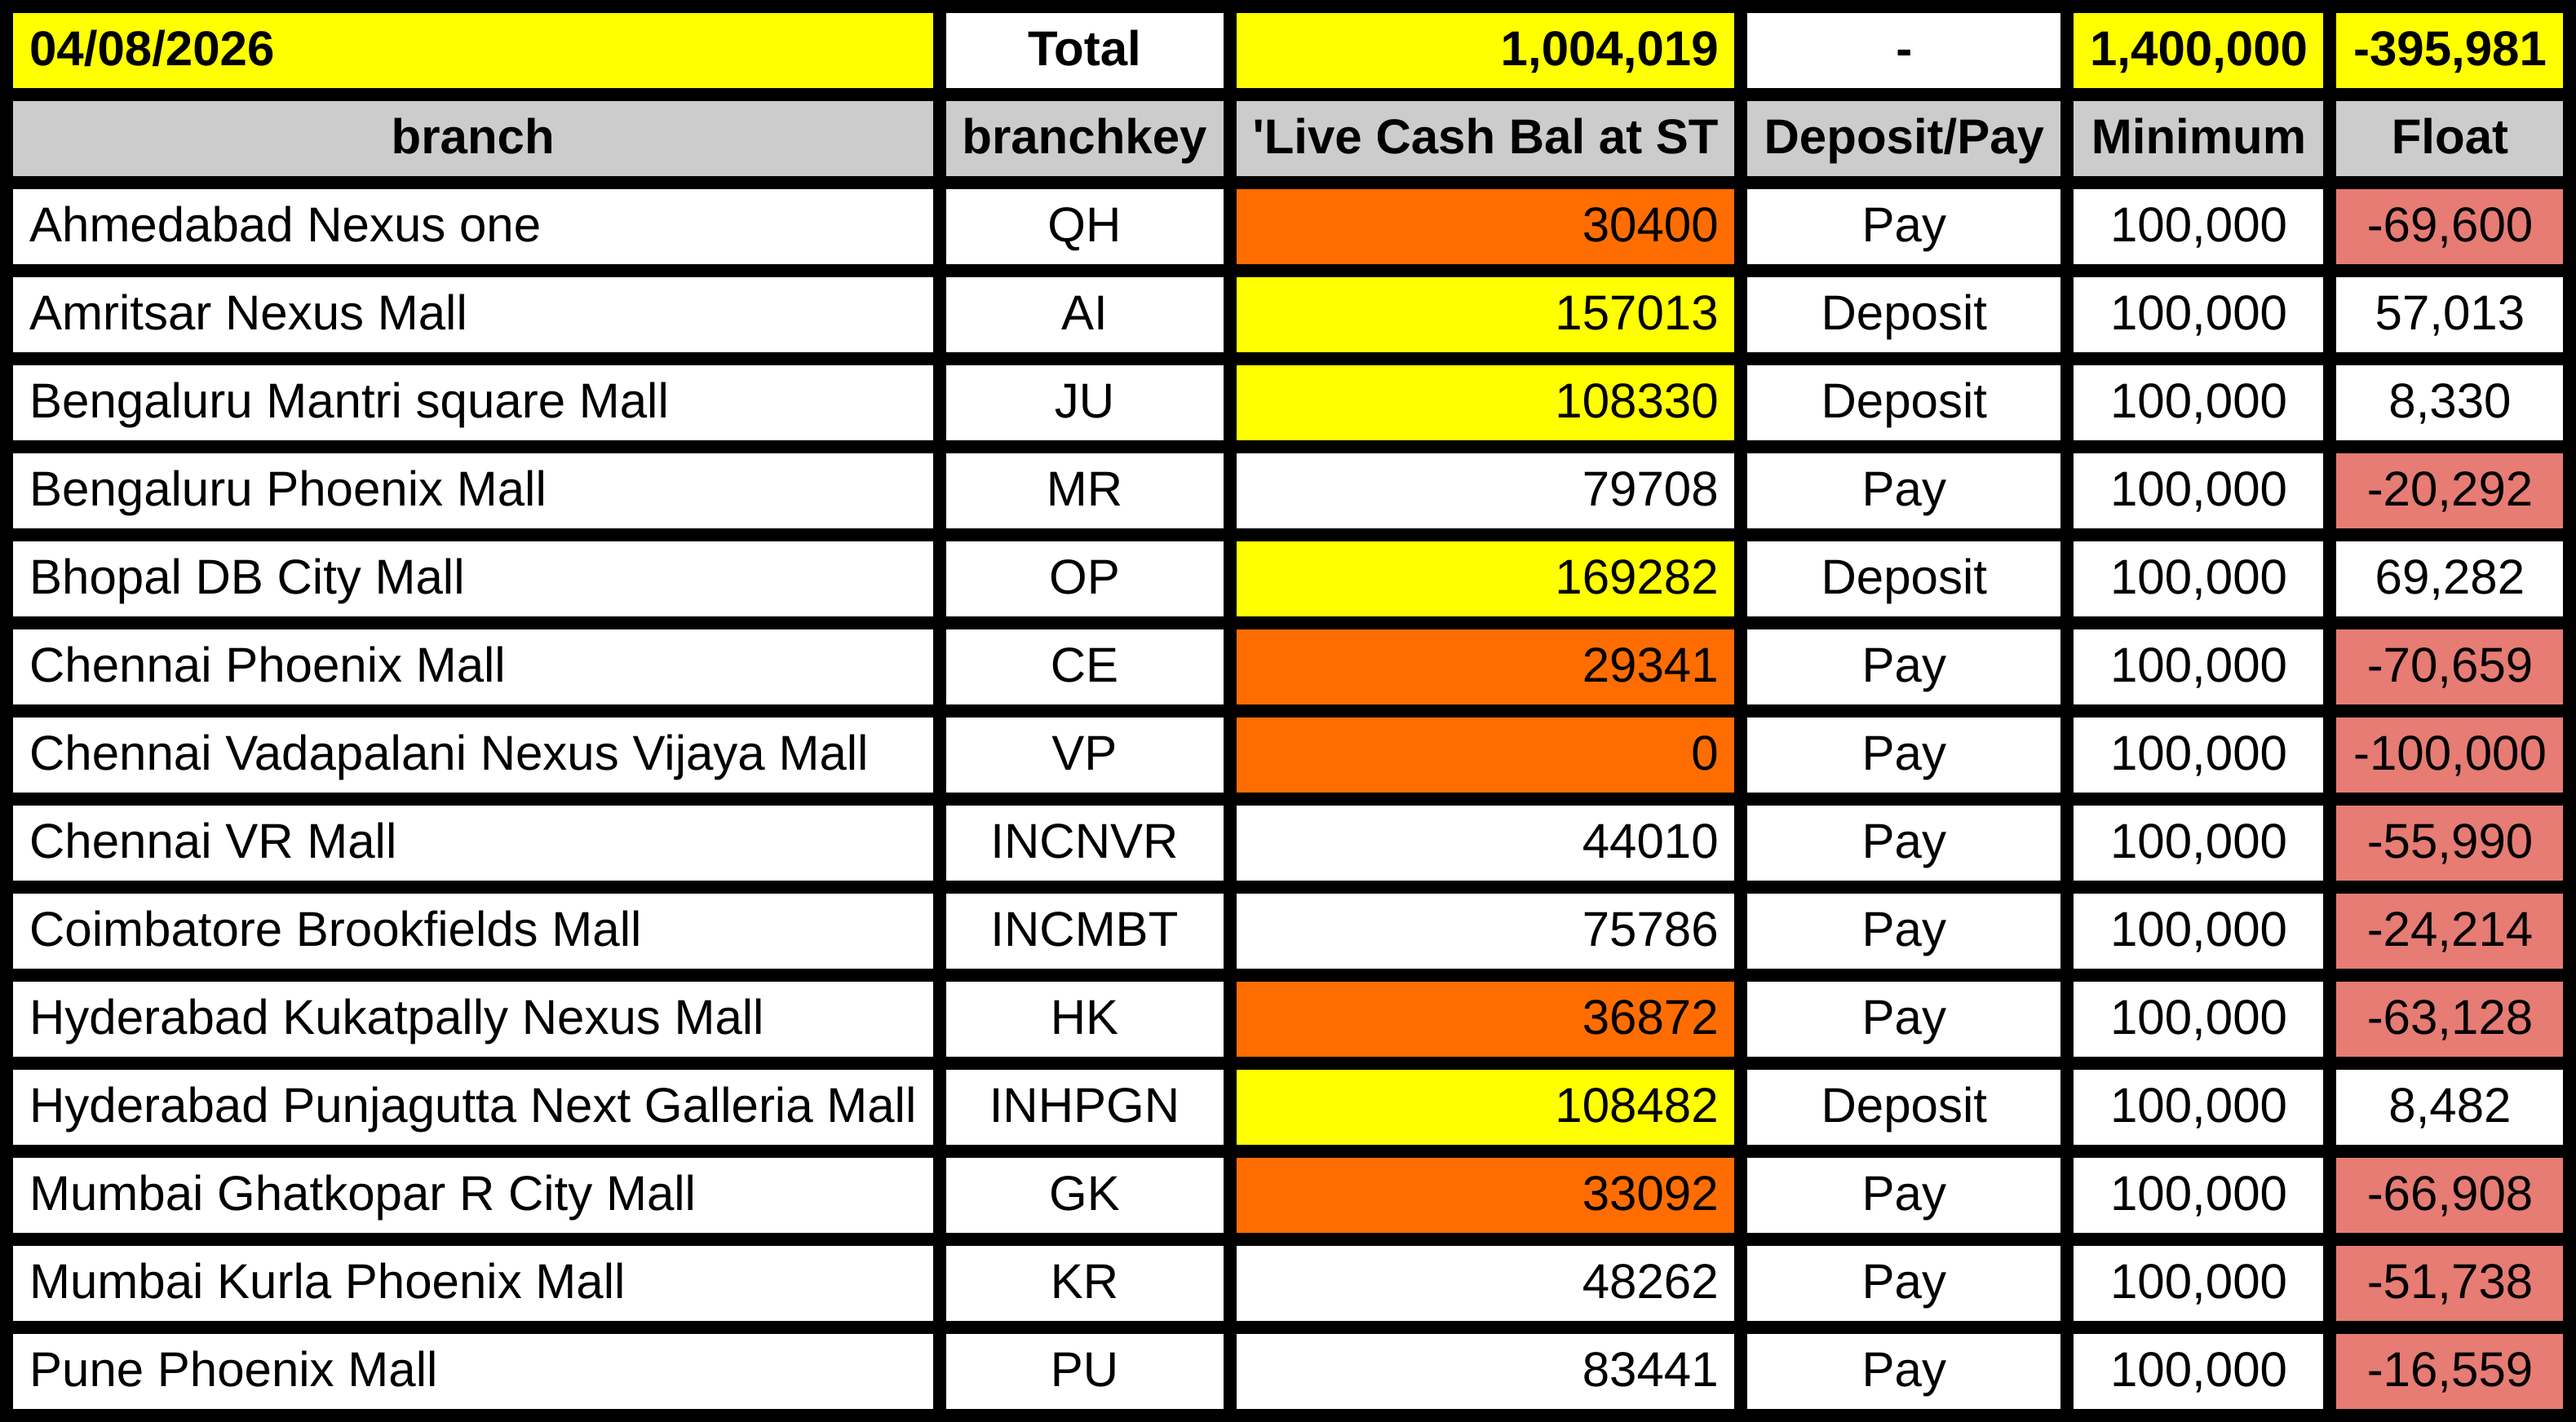
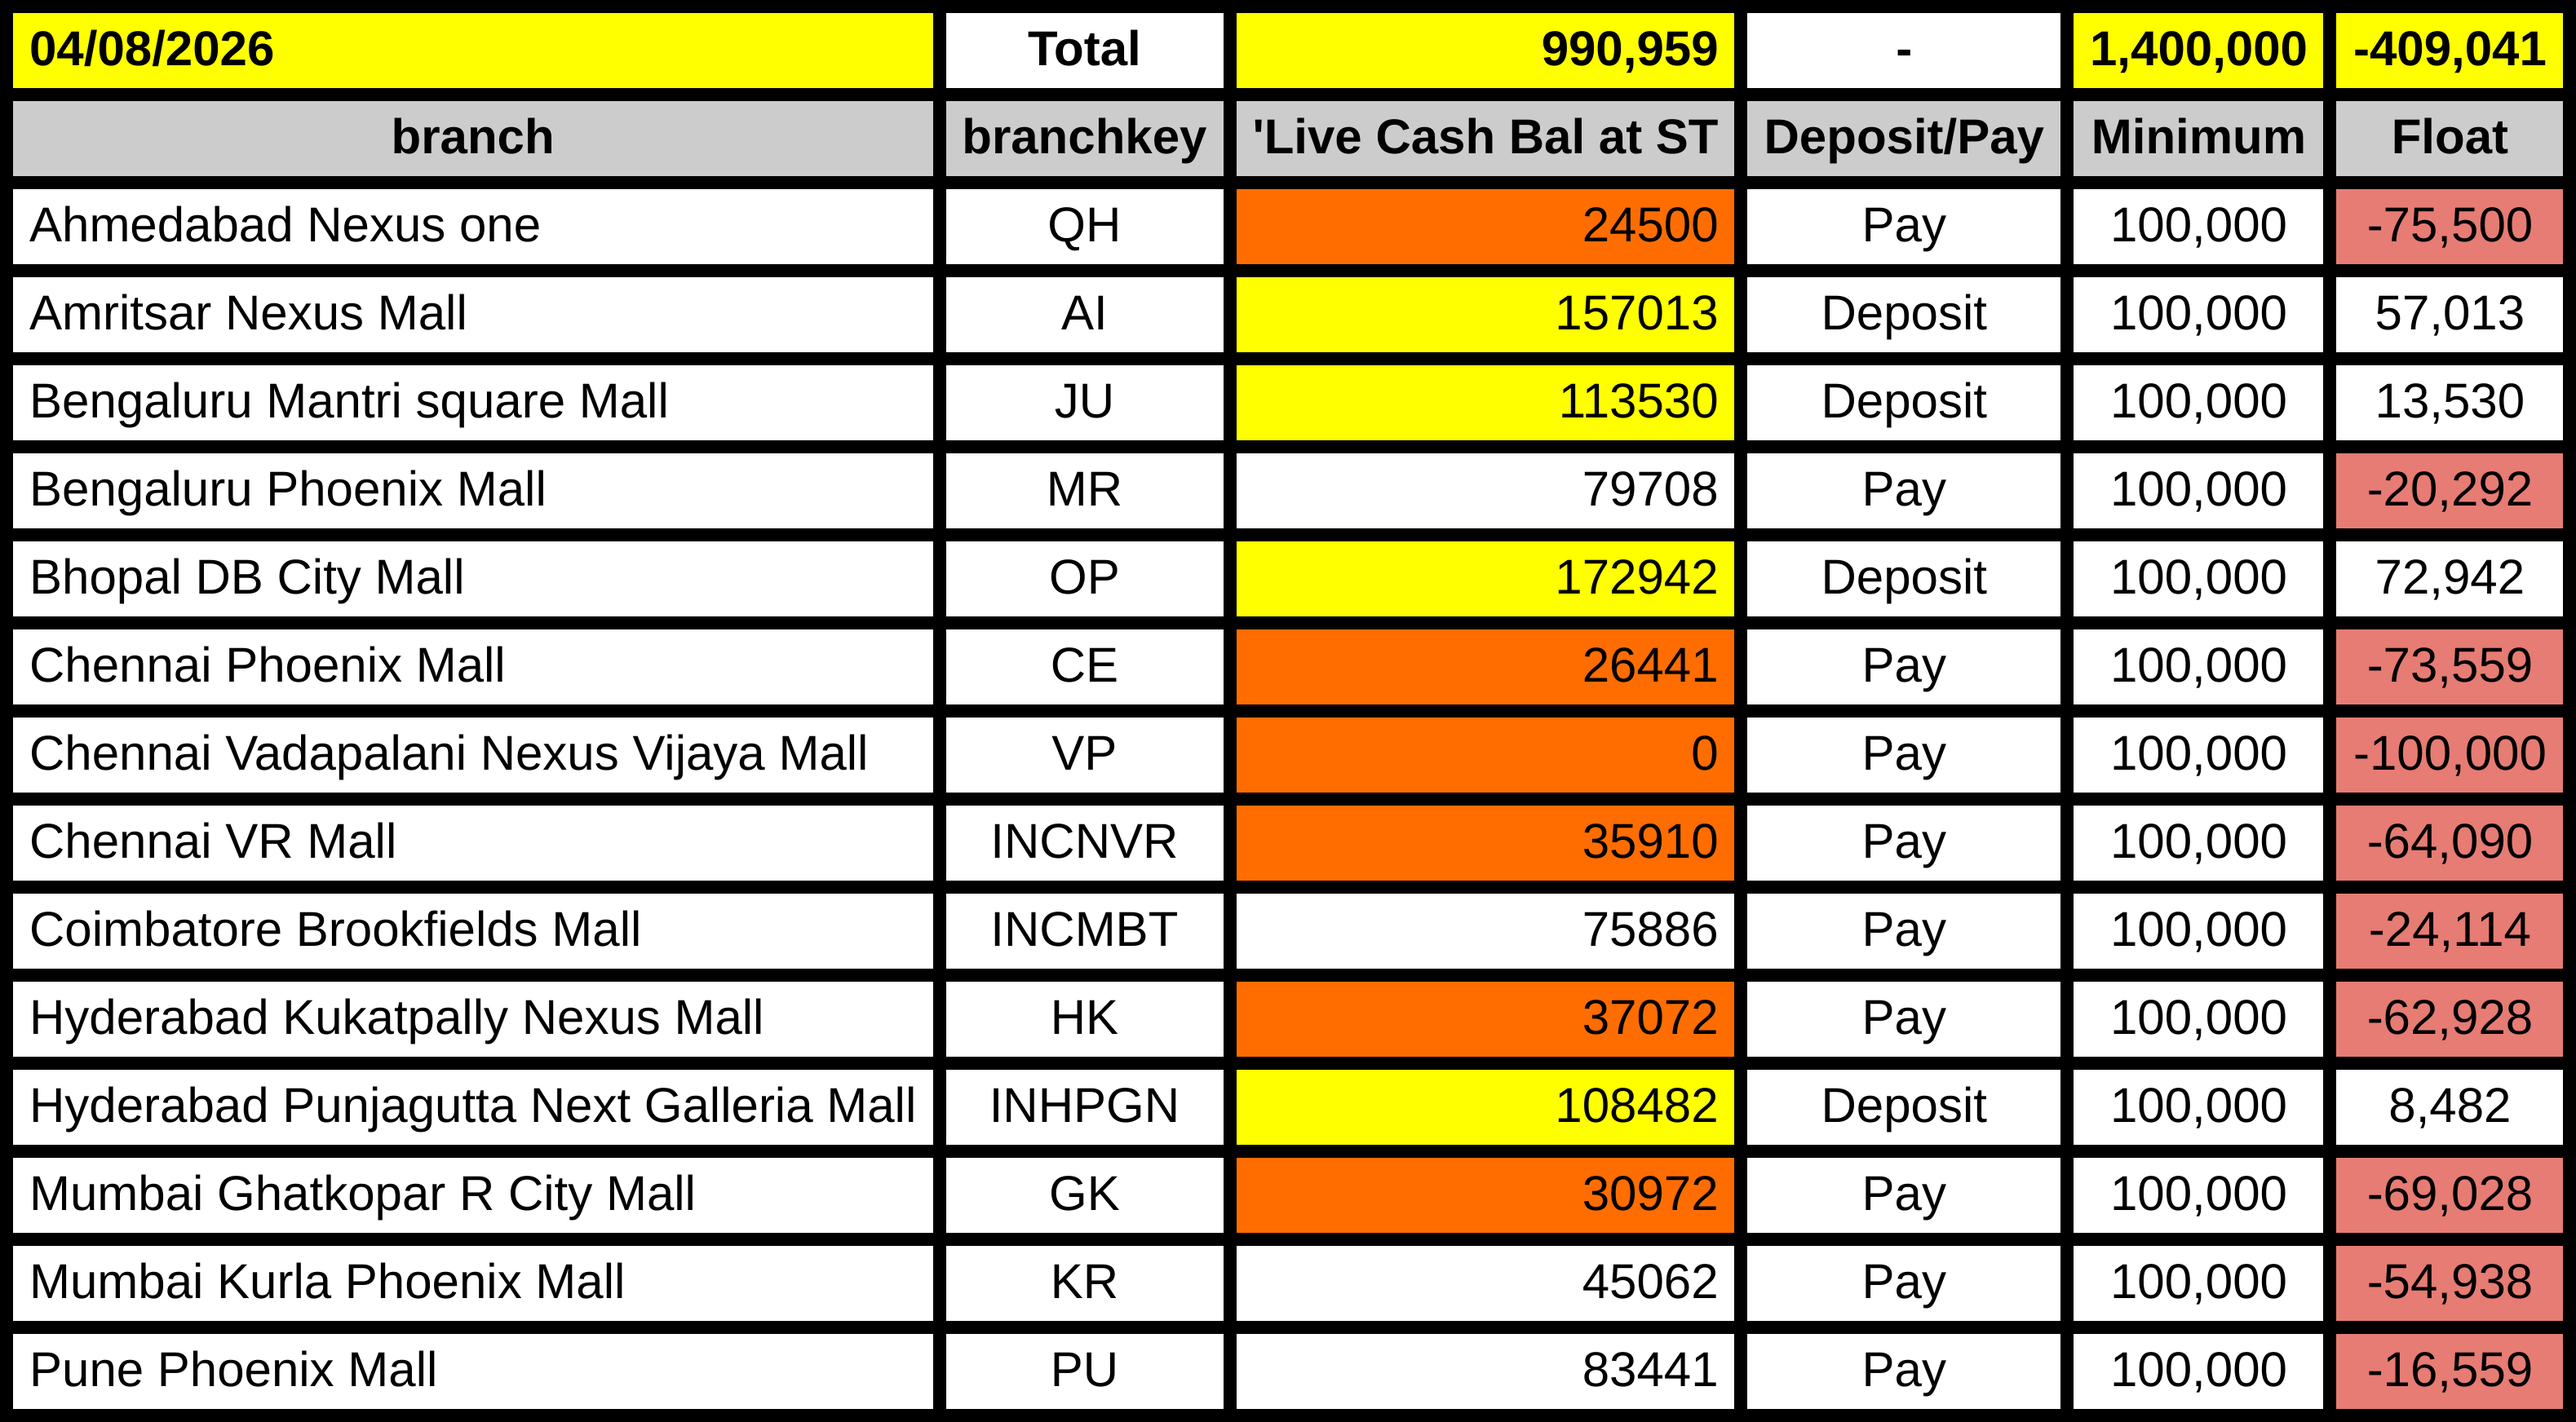
deploy: 9ff941dc8122035b05de681b90439d274931f2c3

diff --git a/table.html b/table.html
@@ -49,7 +49,7 @@
           font-family: Arial, sans-serif;
           font-size: 30px;
           white-space: nowrap;
-        ">1,004,019</td>
+        ">990,959</td>
       
         <td style="
           background-color: #ffffff;
@@ -91,7 +91,7 @@
           font-family: Arial, sans-serif;
           font-size: 30px;
           white-space: nowrap;
-        ">-395,981</td>
+        ">-409,041</td>
       </tr><tr>
         <td style="
           background-color: #cccccc;
@@ -217,7 +217,7 @@
           font-family: Arial, sans-serif;
           font-size: 30px;
           white-space: nowrap;
-        ">30400</td>
+        ">24500</td>
       
         <td style="
           background-color: #ffffff;
@@ -259,7 +259,7 @@
           font-family: Arial, sans-serif;
           font-size: 30px;
           white-space: nowrap;
-        ">-69,600</td>
+        ">-75,500</td>
       </tr><tr>
         <td style="
           background-color: #ffffff;
@@ -385,7 +385,7 @@
           font-family: Arial, sans-serif;
           font-size: 30px;
           white-space: nowrap;
-        ">108330</td>
+        ">113530</td>
       
         <td style="
           background-color: #ffffff;
@@ -427,7 +427,7 @@
           font-family: Arial, sans-serif;
           font-size: 30px;
           white-space: nowrap;
-        ">8,330</td>
+        ">13,530</td>
       </tr><tr>
         <td style="
           background-color: #ffffff;
@@ -553,7 +553,7 @@
           font-family: Arial, sans-serif;
           font-size: 30px;
           white-space: nowrap;
-        ">169282</td>
+        ">172942</td>
       
         <td style="
           background-color: #ffffff;
@@ -595,7 +595,7 @@
           font-family: Arial, sans-serif;
           font-size: 30px;
           white-space: nowrap;
-        ">69,282</td>
+        ">72,942</td>
       </tr><tr>
         <td style="
           background-color: #ffffff;
@@ -637,7 +637,7 @@
           font-family: Arial, sans-serif;
           font-size: 30px;
           white-space: nowrap;
-        ">29341</td>
+        ">26441</td>
       
         <td style="
           background-color: #ffffff;
@@ -679,7 +679,7 @@
           font-family: Arial, sans-serif;
           font-size: 30px;
           white-space: nowrap;
-        ">-70,659</td>
+        ">-73,559</td>
       </tr><tr>
         <td style="
           background-color: #ffffff;
@@ -794,7 +794,7 @@
         ">INCNVR</td>
       
         <td style="
-          background-color: #ffffff;
+          background-color: #ff6d01;
           color: #000000;
           font-weight: normal;
           font-style: normal;
@@ -805,7 +805,7 @@
           font-family: Arial, sans-serif;
           font-size: 30px;
           white-space: nowrap;
-        ">44010</td>
+        ">35910</td>
       
         <td style="
           background-color: #ffffff;
@@ -847,7 +847,7 @@
           font-family: Arial, sans-serif;
           font-size: 30px;
           white-space: nowrap;
-        ">-55,990</td>
+        ">-64,090</td>
       </tr><tr>
         <td style="
           background-color: #ffffff;
@@ -889,7 +889,7 @@
           font-family: Arial, sans-serif;
           font-size: 30px;
           white-space: nowrap;
-        ">75786</td>
+        ">75886</td>
       
         <td style="
           background-color: #ffffff;
@@ -931,7 +931,7 @@
           font-family: Arial, sans-serif;
           font-size: 30px;
           white-space: nowrap;
-        ">-24,214</td>
+        ">-24,114</td>
       </tr><tr>
         <td style="
           background-color: #ffffff;
@@ -973,7 +973,7 @@
           font-family: Arial, sans-serif;
           font-size: 30px;
           white-space: nowrap;
-        ">36872</td>
+        ">37072</td>
       
         <td style="
           background-color: #ffffff;
@@ -1015,7 +1015,7 @@
           font-family: Arial, sans-serif;
           font-size: 30px;
           white-space: nowrap;
-        ">-63,128</td>
+        ">-62,928</td>
       </tr><tr>
         <td style="
           background-color: #ffffff;
@@ -1141,7 +1141,7 @@
           font-family: Arial, sans-serif;
           font-size: 30px;
           white-space: nowrap;
-        ">33092</td>
+        ">30972</td>
       
         <td style="
           background-color: #ffffff;
@@ -1183,7 +1183,7 @@
           font-family: Arial, sans-serif;
           font-size: 30px;
           white-space: nowrap;
-        ">-66,908</td>
+        ">-69,028</td>
       </tr><tr>
         <td style="
           background-color: #ffffff;
@@ -1225,7 +1225,7 @@
           font-family: Arial, sans-serif;
           font-size: 30px;
           white-space: nowrap;
-        ">48262</td>
+        ">45062</td>
       
         <td style="
           background-color: #ffffff;
@@ -1267,7 +1267,7 @@
           font-family: Arial, sans-serif;
           font-size: 30px;
           white-space: nowrap;
-        ">-51,738</td>
+        ">-54,938</td>
       </tr><tr>
         <td style="
           background-color: #ffffff;
